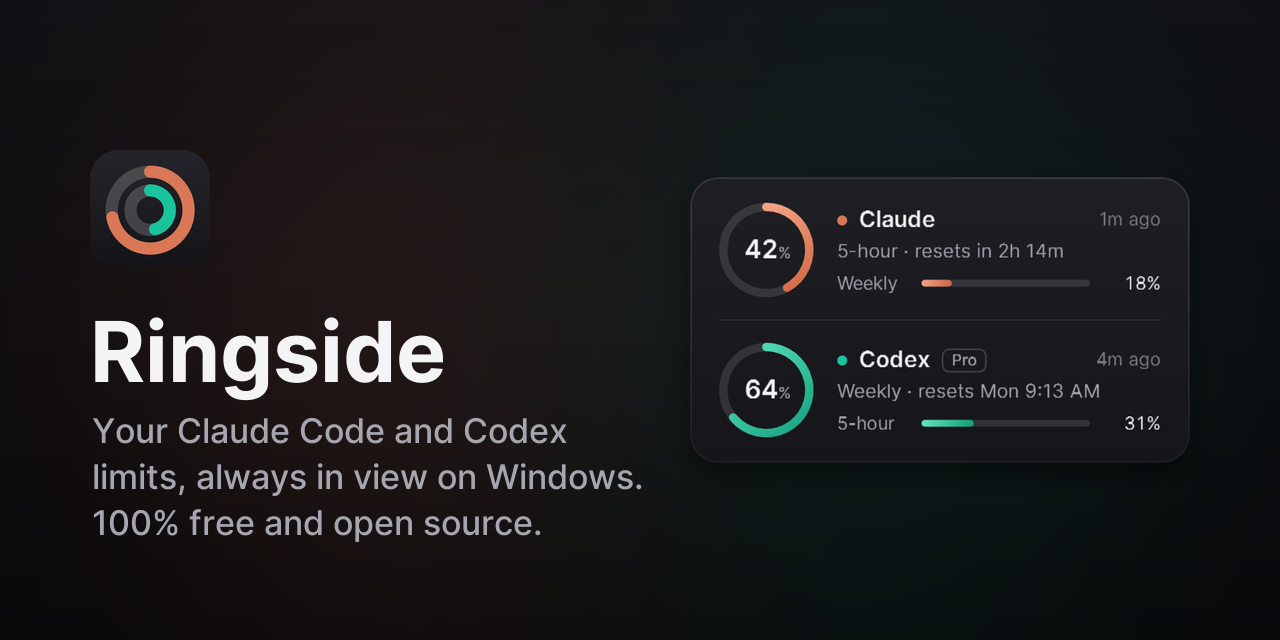
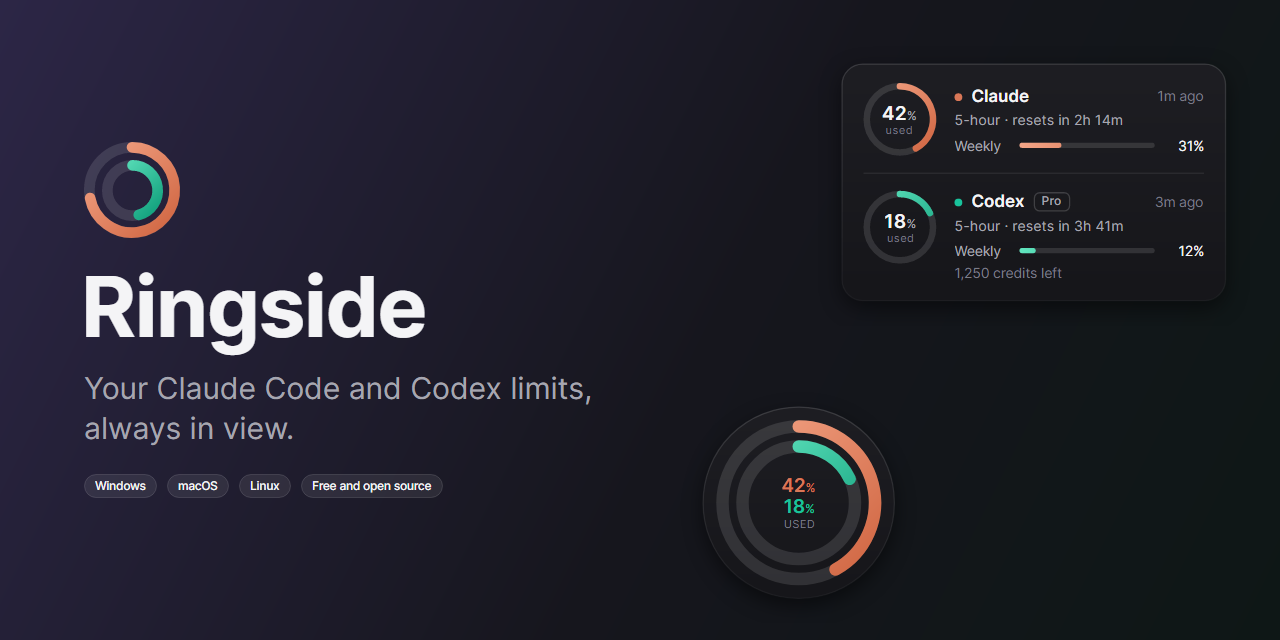
Ringside 2.0: security fixes, 1.x welcome back, captioned demo GIF, social card
- Quote the Claude Code status line command with single quotes so no
  character in a path can become shell syntax
- Single-instance pipe accepts only the current user's processes
- Tooltips sit above the meter, never under the pointer
- Keep a joined meter on screen; split places the second meter beside the first
- Welcome cards lift above other windows once on first open
- One-time 'Ringside 2.0 is here' notification for upgraders from 1.x
- Demo GIF with captions and readable holds; social card drawn from the real UI
- README and release notes: macOS is on the way

diff --git a/tools/Ringside.Render/Program.cs b/tools/Ringside.Render/Program.cs
@@ -38,6 +38,7 @@ static class Program
 
         if (what is "all" or "stills") Stills();
         if (what is "all" or "frames") Frames();
+        if (what is "all" or "stills") Social();
         Console.WriteLine("rendered to " + _out);
         return 0;
     }
@@ -194,11 +195,24 @@ static class Program
         var dir = Path.Combine(_out, "frames");
         Directory.CreateDirectory(dir);
         int n = 0;
-        void Frame(Control c) => Capture(Desk(new Border { Width = 560, Height = 300, Child = Center(c) }), 1.5, Path.Combine(dir, $"f{n++:000}.png"));
+        string caption = "";
+        void Frame(Control c)
+        {
+            var label = new TextBlock
+            {
+                Text = caption, FontSize = 15, FontWeight = FontWeight.Medium, Foreground = Brand.Fg2Brush,
+                HorizontalAlignment = HorizontalAlignment.Center, Margin = new Thickness(0, 0, 0, 14),
+            };
+            var scaled = new LayoutTransformControl { LayoutTransform = new ScaleTransform(1.2, 1.2), Child = c, ClipToBounds = false };
+            var stage = new Grid { Width = 600, Height = 330, RowDefinitions = new RowDefinitions("*,Auto"), Children = { Center(scaled), label } };
+            Grid.SetRow(label, 1);
+            Capture(Desk(stage), 1.5, Path.Combine(dir, $"f{n++:000}.png"));
+        }
         static Control Center(Control c) { c.HorizontalAlignment = HorizontalAlignment.Center; c.VerticalAlignment = VerticalAlignment.Center; return c; }
         static double Ease(double t) => 1 - Math.Pow(1 - t, 3);
 
         // 1. Card: usage climbs from nothing.
+        caption = "Your Claude and Codex limits, always in view";
         for (int i = 0; i <= 12; i++)
         {
             double t = Ease(i / 12.0);
@@ -206,18 +220,19 @@ static class Program
         }
         Hold(Frame, () => Widget(Look(), Reading.Sample(Now)), 8);
 
-        // 2. Flip to "left": the same limits drain like a tank.
+        // 2. Flip to "left": the same limits, draining like a tank.
+        caption = "Fill up, or drain like a tank";
         for (int i = 0; i <= 10; i++)
         {
             double t = Ease(i / 10.0);
             // The ring eases from the used reading (42) to the left reading (58).
-            var s = Look(x => x.Fill = FillMode.Left);
-            Frame(Widget(s, Reading.Sample(Now, claude: 100 - (58 + (42 - 58) * (1 - t)), codex: 100 - (82 + (18 - 82) * (1 - t)),
+            Frame(Widget(Look(x => x.Fill = FillMode.Left), Reading.Sample(Now, claude: 100 - (58 + (42 - 58) * (1 - t)), codex: 100 - (82 + (18 - 82) * (1 - t)),
                 claudeWeek: 100 - (69 + (31 - 69) * (1 - t)), codexWeek: 100 - (88 + (12 - 88) * (1 - t)))));
         }
         Hold(Frame, () => Widget(Look(x => x.Fill = FillMode.Left), Reading.Sample(Now)), 8);
 
         // 3. Views: pill, then the orb.
+        caption = "Three views: card, pill and orb";
         Hold(Frame, () => Widget(Look(x => x.View = ViewKind.Pill), Reading.Sample(Now)), 8);
         for (int i = 0; i <= 10; i++)
         {
@@ -227,19 +242,66 @@ static class Program
         Hold(Frame, () => Widget(Look(x => x.View = ViewKind.Orb), Reading.Sample(Now)), 6);
 
         // 4. Colors.
+        caption = "Your colors";
         foreach (var (c1, c2) in new[] { ("#8B7CF6", "#4EA8F5"), ("#EF5D8C", "#E2B53C"), ("#4EA8F5", "#8CCB45") })
             Hold(Frame, () => Widget(Look(x => { x.View = ViewKind.Orb; x.ClaudeColor = c1; x.CodexColor = c2; }), Reading.Sample(Now)), 5);
 
         // 5. Split apart, then join.
+        caption = "Split them apart, snap them together";
         for (int i = 0; i <= 8; i++)
         {
-            double gap = 140 * Ease(i / 8.0);
+            double gap = 120 * Ease(i / 8.0);
             Frame(Row(Widget(Look(x => x.View = ViewKind.Orb), Reading.Sample(Now), "Claude"), new Border { Width = gap }, Widget(Look(x => x.View = ViewKind.Orb), Reading.Sample(Now), "Codex")));
         }
-        Hold(Frame, () => Row(Widget(Look(x => x.View = ViewKind.Orb), Reading.Sample(Now), "Claude"), new Border { Width = 140 }, Widget(Look(x => x.View = ViewKind.Orb), Reading.Sample(Now), "Codex")), 6);
+        Hold(Frame, () => Row(Widget(Look(x => x.View = ViewKind.Orb), Reading.Sample(Now), "Claude"), new Border { Width = 120 }, Widget(Look(x => x.View = ViewKind.Orb), Reading.Sample(Now), "Codex")), 6);
         Hold(Frame, () => Widget(Look(x => x.View = ViewKind.Orb), Reading.Sample(Now)), 6);
-        Hold(Frame, () => Widget(Look(), Reading.Sample(Now)), 6);
+
+        // 6. The forecast.
+        caption = "It warns you before you run out";
+        Hold(Frame, () => Widget(Look(), Reading.Sample(Now, claude: 81, claudeRunsOut: Now.AddMinutes(52))), 10);
         Console.WriteLine($"{n} frames in {dir}");
+    }
+
+    static Control WithAlign(Control c) { c.HorizontalAlignment = HorizontalAlignment.Left; return c; }
+
+    /// <summary>GitHub's social preview, 1280x640, drawn from the real controls.</summary>
+    static void Social()
+    {
+        var r = Reading.Sample(Now);
+        var left = new StackPanel
+        {
+            VerticalAlignment = VerticalAlignment.Center, HorizontalAlignment = HorizontalAlignment.Left, Margin = new Thickness(84, 0, 0, 0), Width = 560,
+            Children =
+            {
+                WithAlign(Kit.Logo(96)),
+                new TextBlock { Text = "Ringside", FontSize = 84, FontWeight = FontWeight.Bold, Foreground = Brand.Fg1Brush, Margin = new Thickness(-3, 18, 0, 0), LetterSpacing = -1.5 },
+                new TextBlock { Text = "Your Claude Code and Codex limits, always in view.", FontSize = 30, LineHeight = 40, Foreground = Brand.Fg2Brush, TextWrapping = TextWrapping.Wrap, Margin = new Thickness(0, 10, 0, 0) },
+                new StackPanel { Orientation = Orientation.Horizontal, Spacing = 10, Margin = new Thickness(0, 26, 0, 0),
+                    Children = { Art.Chip("Windows"), Art.Chip("macOS"), Art.Chip("Linux"), Art.Chip("Free and open source") } },
+            },
+        };
+        var widgets = new Grid
+        {
+            Width = 600, HorizontalAlignment = HorizontalAlignment.Right,
+            Children =
+            {
+                new Border { HorizontalAlignment = HorizontalAlignment.Right, VerticalAlignment = VerticalAlignment.Top, Margin = new Thickness(0, 40, 30, 0),
+                    Child = new LayoutTransformControl { LayoutTransform = new ScaleTransform(1.3, 1.3), ClipToBounds = false, Child = Widget(Look(), r) } },
+                new Border { HorizontalAlignment = HorizontalAlignment.Left, VerticalAlignment = VerticalAlignment.Bottom, Margin = new Thickness(0, 0, 0, 18),
+                    Child = new LayoutTransformControl { LayoutTransform = new ScaleTransform(1.25, 1.25), ClipToBounds = false, Child = Widget(Look(s => s.View = ViewKind.Orb), r) } },
+            },
+        };
+        var card = new Grid
+        {
+            Width = 1280, Height = 640, ClipToBounds = true,
+            Background = new LinearGradientBrush
+            {
+                StartPoint = new RelativePoint(0, 0, RelativeUnit.Relative), EndPoint = new RelativePoint(1, 1, RelativeUnit.Relative),
+                GradientStops = { new GradientStop(Color.Parse("#2C2646"), 0), new GradientStop(Color.Parse("#16161D"), 0.55), new GradientStop(Color.Parse("#0E1716"), 1) },
+            },
+            Children = { left, widgets },
+        };
+        Save("social-card", card, scale: 1);
     }
 
     static void Hold(Action<Control> frame, Func<Control> make, int count)

diff --git a/tools/make-media.py b/tools/make-media.py
@@ -31,11 +31,11 @@ for name in STILLS:
 # --- demo GIF: identical neighbours merge into one longer frame -----------------------
 paths = sorted(glob.glob(os.path.join(renders, "frames", "f*.png")))
 frames, durations = [], []
-STEP = 55
+STEP, HOLD = 55, 190  # an animated step, and each repeat of a held frame
 for p in paths:
     im = Image.open(p).convert("RGB")
     if frames and ImageChops.difference(im, frames[-1]).getbbox() is None:
-        durations[-1] += STEP
+        durations[-1] += HOLD
         continue
     frames.append(im)
     durations.append(STEP)
@@ -43,61 +43,14 @@ if frames:
     W = 760
     scaled = [f.resize((W, round(f.height * W / f.width)), Image.LANCZOS) for f in frames]
     pal = [f.convert("P", palette=Image.ADAPTIVE, colors=255) for f in scaled]
-    durations[-1] = max(durations[-1], 1600)
+    durations[-1] = max(durations[-1], 2200)
     gif = os.path.join(images, "demo.gif")
     pal[0].save(gif, save_all=True, append_images=pal[1:], duration=durations, loop=0, optimize=True, disposal=2)
     print(f"demo.gif: {len(pal)} frames, {sum(durations) / 1000:.1f} s, {os.path.getsize(gif) // 1024} KB")
 
 
-# --- social card ----------------------------------------------------------------------
-def font(names, size):
-    roots = [os.path.join(os.environ.get("LOCALAPPDATA", ""), "Microsoft", "Windows", "Fonts"), r"C:\Windows\Fonts"]
-    for n in names:
-        for r in roots:
-            p = os.path.join(r, n)
-            if os.path.exists(p):
-                return ImageFont.truetype(p, size)
-    return ImageFont.load_default()
-
-
-def backdrop(w, h):
-    top, bottom = (42, 37, 64), (14, 16, 20)
-    bg = Image.new("RGB", (w, h))
-    d = ImageDraw.Draw(bg)
-    for y in range(h):
-        t = y / max(h - 1, 1)
-        d.line([(0, y), (w, y)], fill=tuple(round(top[i] + (bottom[i] - top[i]) * t) for i in range(3)))
-    glow = Image.new("RGB", (w, h), (0, 0, 0))
-    g = ImageDraw.Draw(glow)
-    g.ellipse((w * 0.52, h * 0.0, w * 1.05, h * 1.0), fill=(70, 52, 140))
-    glow = glow.filter(ImageFilter.GaussianBlur(min(w, h) * 0.25))
-    return Image.blend(bg, ImageChops.add(bg, glow), 0.6)
-
-
-card = backdrop(1280, 640).convert("RGBA")
-logo = Image.open(os.path.join(repo, "assets", "ringside.png")).convert("RGBA").resize((104, 104), Image.LANCZOS)
-card.paste(logo, (84, 130), logo)
-d = ImageDraw.Draw(card)
-d.text((80, 262), "Ringside", font=font(["Inter-Bold.ttf", "segoeuib.ttf"], 82), fill=(244, 244, 246))
-words, lines, line = tagline.split(), [], ""
-f = font(["Inter-Regular.ttf", "segoeui.ttf"], 31)
-for w_ in words:
-    trial = (line + " " + w_).strip()
-    if d.textlength(trial, font=f) > 520:
-        lines.append(line)
-        line = w_
-    else:
-        line = trial
-lines.append(line)
-for i, l in enumerate(lines):
-    d.text((84, 380 + i * 44), l, font=f, fill=(176, 176, 188))
-card_src, orb_src = os.path.join(renders, "card-clear.png"), os.path.join(renders, "orb-clear.png")
-if os.path.exists(card_src) and os.path.exists(orb_src):
-    shot = Image.open(card_src).convert("RGBA")
-    shot = shot.resize((round(shot.width * 330 / shot.height), 330), Image.LANCZOS)
-    card.alpha_composite(shot, (1280 - shot.width - 40, 60))
-    orb = Image.open(orb_src).convert("RGBA")
-    orb = orb.resize((300, round(orb.height * 300 / orb.width)), Image.LANCZOS)
-    card.alpha_composite(orb, (1280 - shot.width - 120, 640 - orb.height - 20))
-card.convert("RGB").save(os.path.join(images, "social-card.png"), optimize=True)
-print("social-card.png")
+# --- social card: drawn by the renderer from the real controls -------------------------
+src = os.path.join(renders, "social-card.png")
+if os.path.exists(src):
+    Image.open(src).convert("RGB").save(os.path.join(images, "social-card.png"), optimize=True)
+    print("social-card.png")

diff --git a/tests/Ringside.Tests/CoreTests.cs b/tests/Ringside.Tests/CoreTests.cs
@@ -71,6 +71,14 @@ public sealed class CoreTests
     }
 
     [Fact]
+    public void Settings_know_when_they_came_from_1x()
+    {
+        Assert.True(Settings.Parse("""{"OnboardingDone":true}""").UpgradedFromV1);
+        Assert.False(Settings.Parse("""{"OnboardingDone":true,"Version":2}""").UpgradedFromV1);
+        Assert.False(Settings.Parse("""{"OnboardingDone":false}""").UpgradedFromV1);
+    }
+
+    [Fact]
     public void Split_needs_both_meters()
     {
         var s = Settings.Parse("""{"Split":true,"ShowCodex":false}""");
@@ -177,8 +185,11 @@ public sealed class CoreTests
     [Fact]
     public void Hook_command_quotes_the_path_and_adds_the_flag_for_the_app()
     {
-        Assert.Equal("\"C:/x y/ringside-statusline.exe\"", ClaudeCodeHook.Command(@"C:\x y\ringside-statusline.exe", false));
-        Assert.Equal("\"/Applications/Ringside.app/Contents/MacOS/Ringside\" --statusline",
+        Assert.Equal("'C:/x y/ringside-statusline.exe'", ClaudeCodeHook.Command(@"C:\x y\ringside-statusline.exe", false));
+        Assert.Equal("'/Applications/Ringside.app/Contents/MacOS/Ringside' --statusline",
             ClaudeCodeHook.Command("/Applications/Ringside.app/Contents/MacOS/Ringside", true));
+        // Shell syntax in a folder name stays literal.
+        Assert.Equal(@"'/home/a$(x)/it'\''s/Ringside.AppImage' --statusline",
+            ClaudeCodeHook.Command("/home/a$(x)/it's/Ringside.AppImage", true));
     }
 }

diff --git a/src/Ringside/Platform/Services.cs b/src/Ringside/Platform/Services.cs
@@ -54,7 +54,7 @@ public static class SingleInstance
     {
         try
         {
-            using var c = new NamedPipeClientStream(".", PipeName, PipeDirection.Out);
+            using var c = new NamedPipeClientStream(".", PipeName, PipeDirection.Out, PipeOptions.CurrentUserOnly);
             c.Connect(600);
             using var w = new StreamWriter(c) { AutoFlush = true };
             w.WriteLine(message);
@@ -71,7 +71,8 @@ public static class SingleInstance
             {
                 try
                 {
-                    using var s = new NamedPipeServerStream(PipeName, PipeDirection.In, 1);
+                    // Only this user's processes may ask Ringside to come forward or quit.
+                    using var s = new NamedPipeServerStream(PipeName, PipeDirection.In, 1, PipeTransmissionMode.Byte, PipeOptions.CurrentUserOnly);
                     s.WaitForConnection();
                     using var r = new StreamReader(s);
                     var line = r.ReadLine();

diff --git a/src/Ringside.Core/Settings.cs b/src/Ringside.Core/Settings.cs
@@ -70,6 +70,10 @@ public sealed class Settings
 
     public bool CheckForUpdates { get; set; } = true;
 
+    /// <summary>True when these settings came from Ringside 1.x, which had no Version field.</summary>
+    [JsonIgnore]
+    public bool UpgradedFromV1 { get; private set; }
+
     /// <summary>Ringside 1.x saved the pill view as a flag; read once, then dropped.</summary>
     [JsonIgnore(Condition = JsonIgnoreCondition.WhenWritingNull)]
     public bool? Compact { get; set; }
@@ -93,6 +97,7 @@ public sealed class Settings
         Settings s;
         try { s = JsonSerializer.Deserialize<Settings>(json, Json) ?? new Settings(); }
         catch (JsonException) { return new Settings(); }
+        s.UpgradedFromV1 = s.OnboardingDone && !json.Contains("\"Version\"", StringComparison.Ordinal);
         s.Normalize();
         return s;
     }

diff --git a/src/Ringside.Core/ClaudeCodeHook.cs b/src/Ringside.Core/ClaudeCodeHook.cs
@@ -49,9 +49,10 @@ public static class ClaudeCodeHook
                (c.Contains("--statusline", StringComparison.Ordinal) && c.Contains("Ringside", StringComparison.OrdinalIgnoreCase));
     }
 
-    // Forward slashes and quotes work in the bash Claude Code uses on every platform, and in cmd.
+    // Claude Code runs status lines with bash on every platform (Git Bash on Windows). Single quotes
+    // keep the path literal there: no $, backtick or quote in a folder name can turn into shell syntax.
     internal static string Command(string exe, bool isApp) =>
-        "\"" + exe.Replace('\\', '/') + "\"" + (isApp ? " --statusline" : "");
+        "'" + exe.Replace('\\', '/').Replace("'", "'\\''") + "'" + (isApp ? " --statusline" : "");
 
     public static bool Connect()
     {

diff --git a/src/Ringside/Controller.cs b/src/Ringside/Controller.cs
@@ -88,8 +88,12 @@ public sealed class Controller : IHost
         };
 
         BuildTray();
+        bool upgraded = _s.UpgradedFromV1;
         if (_s.OnboardingDone) StartMeters();
         else ShowOnboarding();
+        _s.Save(); // writes Version, so the welcome back happens once
+        if (upgraded)
+            Notify("Ringside 2.0 is here", "New views, used or left, your own colors and more. Click for the tour.", Brand.Accent, ShowOnboarding);
     }
 
     // ---- meters -----------------------------------------------------------------------

diff --git a/README.md b/README.md
@@ -2,11 +2,11 @@
 
 <h1 align="center">Ringside</h1>
 
-<p align="center">Your Claude Code and Codex limits, always in view. Windows, macOS and Linux. 100% free and open source.</p>
+<p align="center">Your Claude Code and Codex limits, always in view. Windows and Linux, with macOS on the way. 100% free and open source.</p>
 
 <p align="center"><a href="https://github.com/KNIGHT-AI-AV/ringside/releases/latest"><img src="https://img.shields.io/github/v/release/KNIGHT-AI-AV/ringside?style=flat-square" alt="Latest release"></a> <a href="https://github.com/KNIGHT-AI-AV/ringside/releases"><img src="https://img.shields.io/github/downloads/KNIGHT-AI-AV/ringside/total?style=flat-square" alt="Downloads"></a> <a href="LICENSE"><img src="https://img.shields.io/github/license/KNIGHT-AI-AV/ringside?style=flat-square" alt="MIT license"></a> <img src="https://img.shields.io/badge/Windows%20%7C%20macOS%20%7C%20Linux-8B7CF6?style=flat-square" alt="Windows, macOS and Linux"> <a href="https://github.com/KNIGHT-AI-AV/ringside/stargazers"><img src="https://img.shields.io/github/stars/KNIGHT-AI-AV/ringside?style=flat-square" alt="GitHub stars"></a></p>
 
-<p align="center"><a href="https://github.com/KNIGHT-AI-AV/ringside/releases/latest/download/Ringside-win-Setup.exe"><b>Windows</b></a> &nbsp;·&nbsp; <a href="https://github.com/KNIGHT-AI-AV/ringside/releases/latest/download/Ringside-osx-arm64.zip"><b>macOS</b></a> &nbsp;·&nbsp; <a href="https://github.com/KNIGHT-AI-AV/ringside/releases/latest/download/Ringside.AppImage"><b>Linux</b></a> &nbsp;·&nbsp; <a href="https://github.com/KNIGHT-AI-AV/ringside/releases/latest">All downloads</a></p>
+<p align="center"><a href="https://github.com/KNIGHT-AI-AV/ringside/releases/latest/download/Ringside-win-Setup.exe"><b>Windows</b></a> &nbsp;·&nbsp; <a href="https://github.com/KNIGHT-AI-AV/ringside/releases/latest/download/Ringside.AppImage"><b>Linux</b></a> &nbsp;·&nbsp; macOS coming soon &nbsp;·&nbsp; <a href="https://github.com/KNIGHT-AI-AV/ringside/releases/latest">All downloads</a></p>
 
 <p align="center"><img src="docs/images/demo.gif" width="620" alt="Ringside: the rings fill up, flip to show what's left, switch between the card, pill and orb views, change colors, split apart and join again"></p>
 
@@ -53,7 +53,7 @@ When a limit is climbing fast, Ringside works out when it will run out at your c
 | | Download | Then |
 |---|---|---|
 | Windows 10 and 11 | [Ringside-win-Setup.exe](https://github.com/KNIGHT-AI-AV/ringside/releases/latest/download/Ringside-win-Setup.exe) | Run it. It installs for your user only, with no admin prompt. |
-| macOS 12 or later, Apple silicon | [Ringside-osx-arm64.zip](https://github.com/KNIGHT-AI-AV/ringside/releases/latest/download/Ringside-osx-arm64.zip) | Unzip it, drag Ringside to Applications and open it. It lives in the menu bar. |
+| macOS 12 or later, Apple silicon | Coming soon, signed and notarized by Apple | It will live in the menu bar. Star or watch the repo to hear when it lands. |
 | Linux, x64 | [Ringside.AppImage](https://github.com/KNIGHT-AI-AV/ringside/releases/latest/download/Ringside.AppImage) | Make it executable (`chmod +x Ringside.AppImage`) and run it. |
 
 The welcome cards walk you through the rest: what Ringside found on your computer, your view, used or left, colors, alerts and the optional Claude Code link.
@@ -62,7 +62,7 @@ The welcome cards walk you through the rest: what Ringside found on your compute
 
 Windows may say "Windows protected your PC" because the installer is new. Choose More info, then Run anyway. Every download's SHA-256 checksum is listed in SHA256SUMS.txt on the release page.
 
-The Mac app is signed and notarized by Apple. On Linux, the tray icon needs a desktop with tray support (on GNOME, the AppIndicator extension).
+On Linux, the tray icon needs a desktop with tray support (on GNOME, the AppIndicator extension).
 
 ## What it shows
 

diff --git a/CHANGELOG.md b/CHANGELOG.md
@@ -2,9 +2,9 @@
 
 ## 2.0.0 (2026-10-16)
 
-Ringside now runs on Windows, macOS and Linux, with a new look and much more to set.
+Ringside now runs on Windows and Linux, with macOS on the way, and has a new look and much more to set.
 
-- macOS (Apple silicon) and Linux builds, from one codebase.
+- Linux build, and macOS (Apple silicon) on the way, from one codebase.
 - New welcome cards that walk through setup with pictures: what Ringside found, your view, used or left, colors, alerts and the Claude Code link.
 - Three views: the full card, the slim pill, and the orb, a ring inside a ring like the logo.
 - Show limits as used (filling up) or as left (draining like a tank). Every number, tooltip, alert and the Claude Code status line follow the choice.
